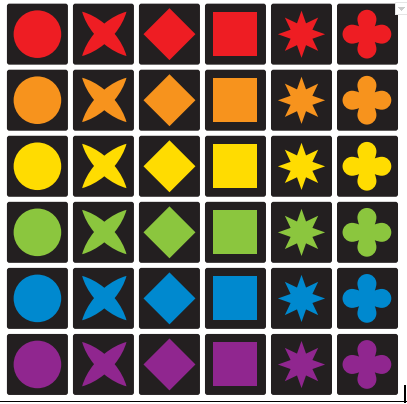
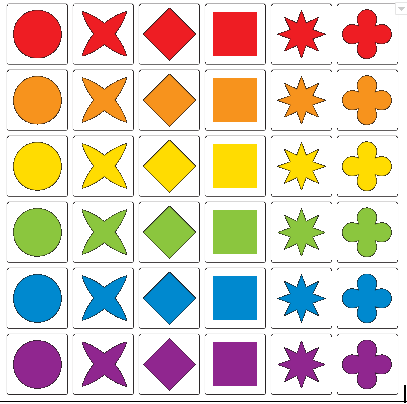
javadoc
added javadoc
made tiles.png transparant

diff --git a/qwirkle/src/nl/utwente/ewi/qwirkle/util.java b/qwirkle/src/nl/utwente/ewi/qwirkle/util.java
@@ -43,8 +43,7 @@ public class util {
 		System.out.print(tekst);
 		String antw = null;
 		try {
-			BufferedReader in = new BufferedReader(new InputStreamReader(
-					System.in));
+			BufferedReader in = new BufferedReader(new InputStreamReader(System.in));
 			antw = in.readLine();
 		} catch (IOException e) {
 		}
@@ -52,6 +51,14 @@ public class util {
 		return (antw == null) ? "" : antw;
 	}
 
+	/**
+	 * checks if Feature is inside the array
+	 * 
+	 * @param s
+	 * @param a
+	 * @return true if {@link nl.utwente.ewi.qwirkle.protocol.IProtocol.Feature}
+	 *         is inside <code>s</code>.
+	 */
 	public static boolean FeatureArrayContains(IProtocol.Feature[] s, IProtocol.Feature a) {
 		for (IProtocol.Feature ftr : s) {
 			if (ftr.equals(a)) {

diff --git a/qwirkle/src/nl/utwente/ewi/qwirkle/ui/gui/panels/ConnectPanel.java b/qwirkle/src/nl/utwente/ewi/qwirkle/ui/gui/panels/ConnectPanel.java
@@ -117,9 +117,7 @@ public class ConnectPanel extends JFrame {
 				
 				if(j == 0){
 					//no queues selected
-					JOptionPane.showMessageDialog(contentPane, "You need to select atleast 1 queue");
-					
-					
+					JOptionPane.showMessageDialog(contentPane, "You need to select atleast 1 queue");					
 				}else{
 				
 					int[] enteredQueues = new int[j];				

diff --git a/qwirkle/src/nl/utwente/ewi/qwirkle/protocol/Protocol.java b/qwirkle/src/nl/utwente/ewi/qwirkle/protocol/Protocol.java
@@ -133,6 +133,15 @@ public class Protocol implements IProtocol {
 	/*
 	 * Server
 	 */
+	
+	public String serverQueueOk(){
+		String result = "";
+		
+		result += this.SERVER_QUEUE;
+		//TODO implement something
+		
+		return result;
+	}
 
 	public String serverConnectOk(IProtocol.Feature[] features) {
 		String result = "";
